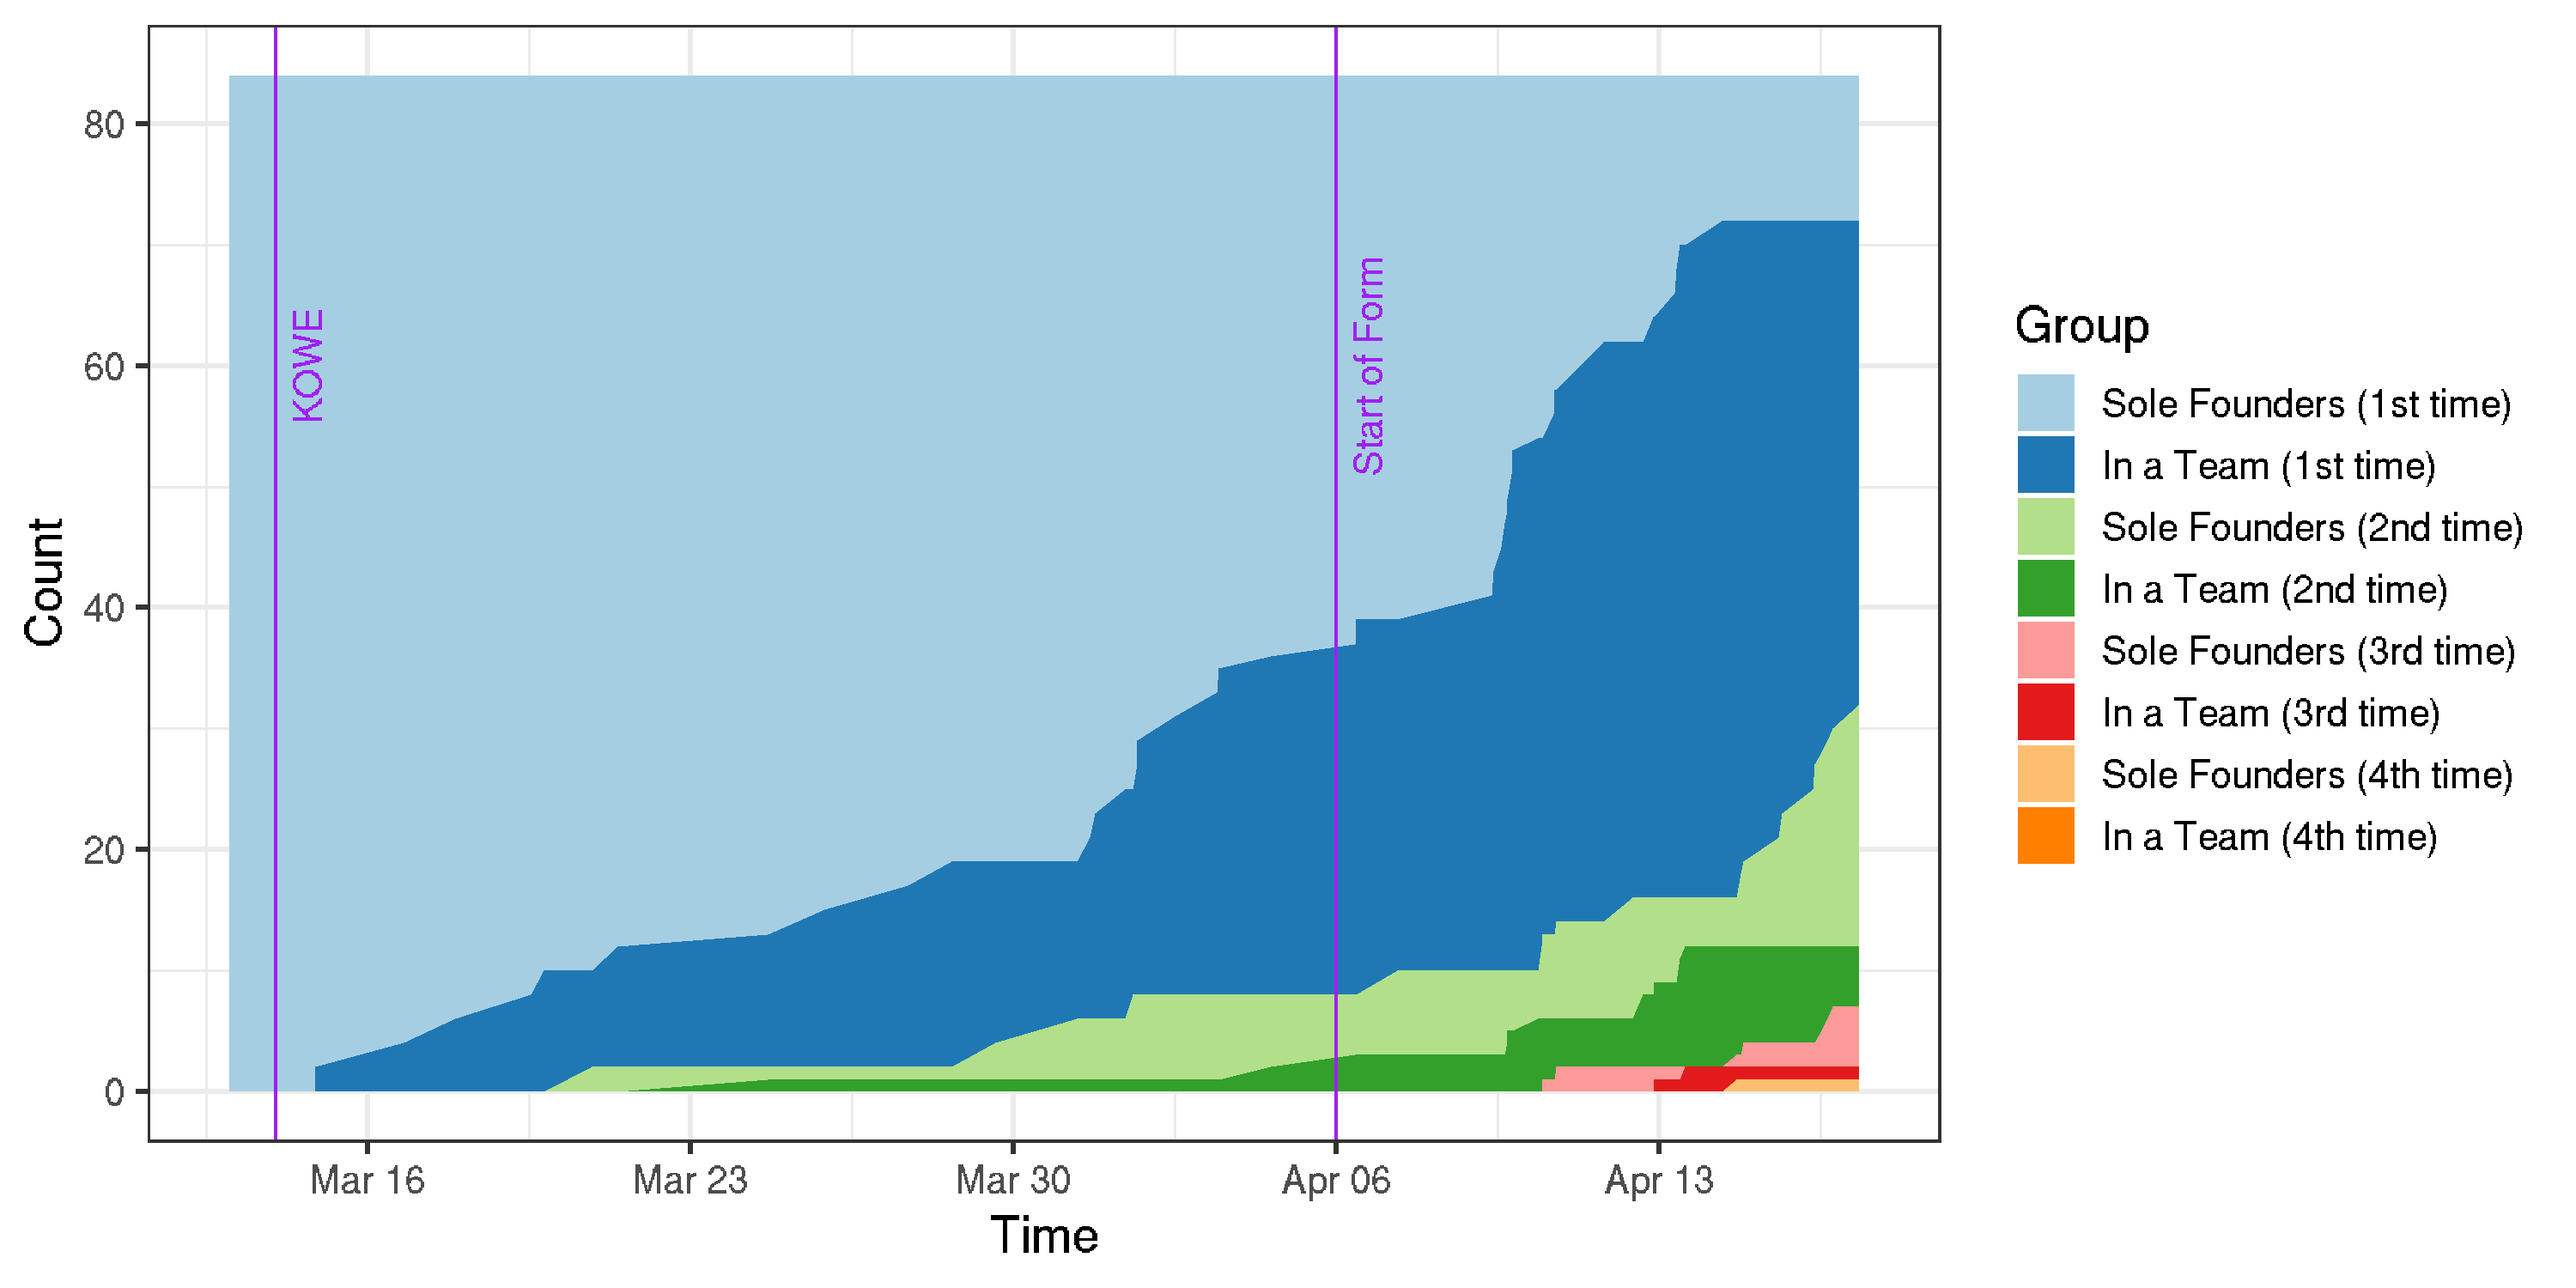
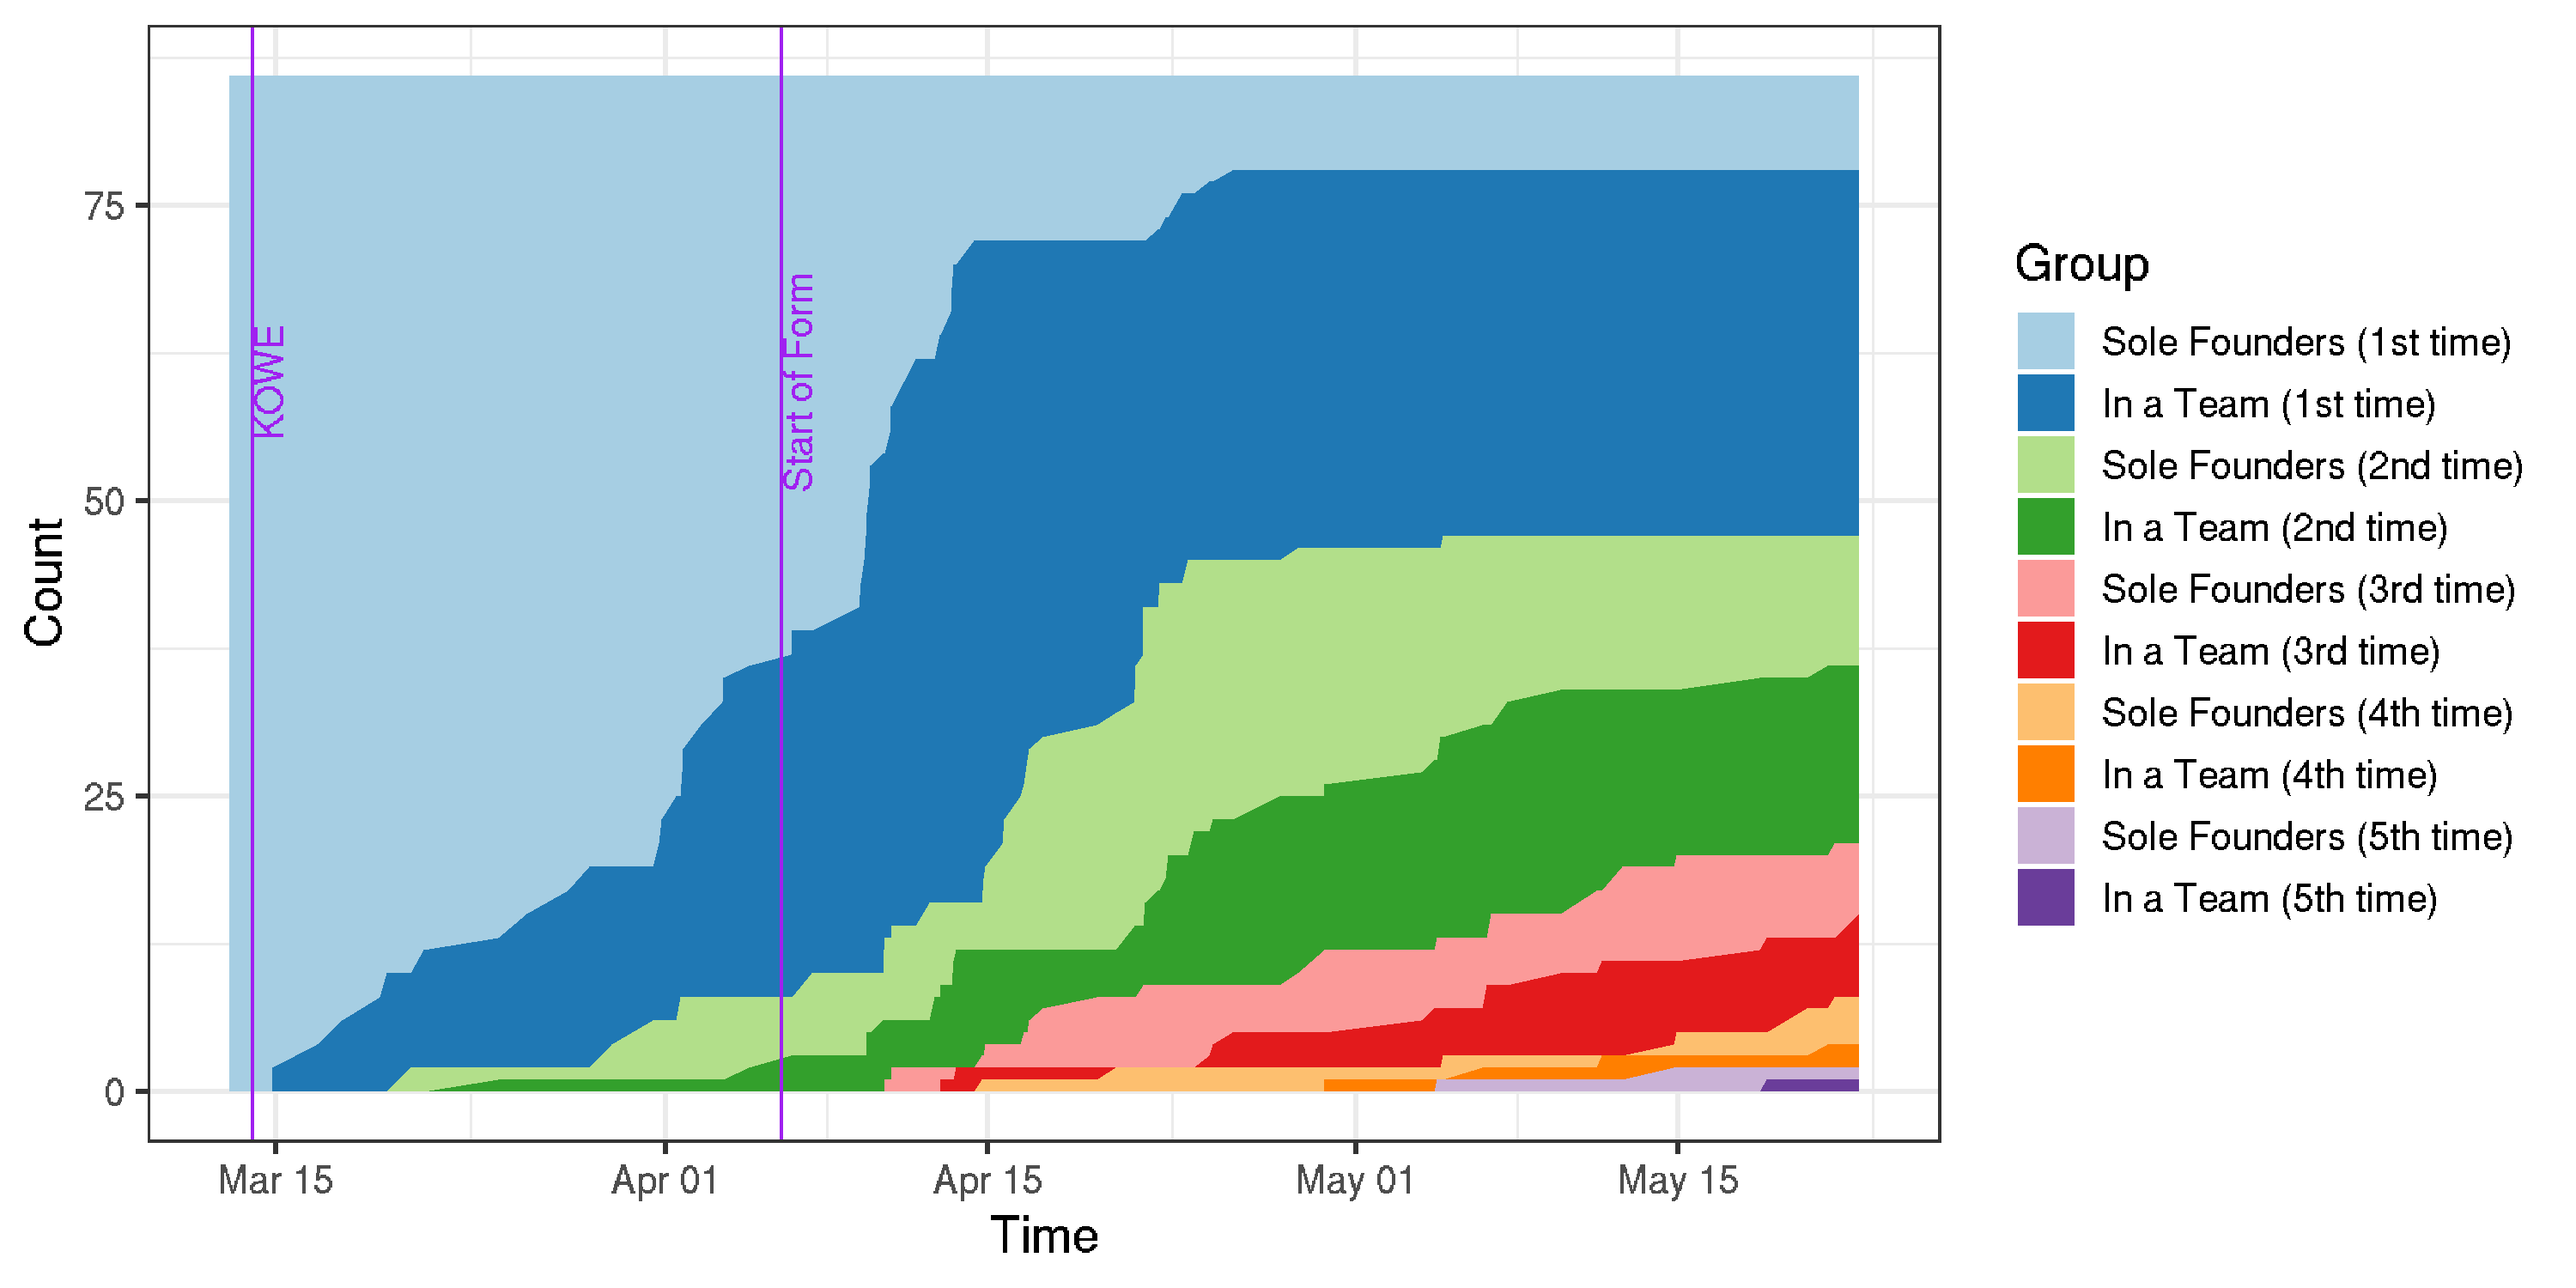
Update plot

diff --git a/log2csv.js b/log2csv.js
@@ -25,7 +25,7 @@ let onChange = () => {
 		else
 			soleByNum[p.teamCount] = (soleByNum[p.teamCount] || 0) + 1;
 	}
-	soleByNum[0] = 84 - (Object.values(people).length - (soleByNum[0] || 0));
+	soleByNum[0] = 86 - (Object.values(people).length - (soleByNum[0] || 0));
 	for (let i = 0, len = Math.max(soleByNum.length, teamsByNum.length); i < len; ++i) {
 		let j = i + 1;
 		let sole  = soleByNum[i] || 0;
